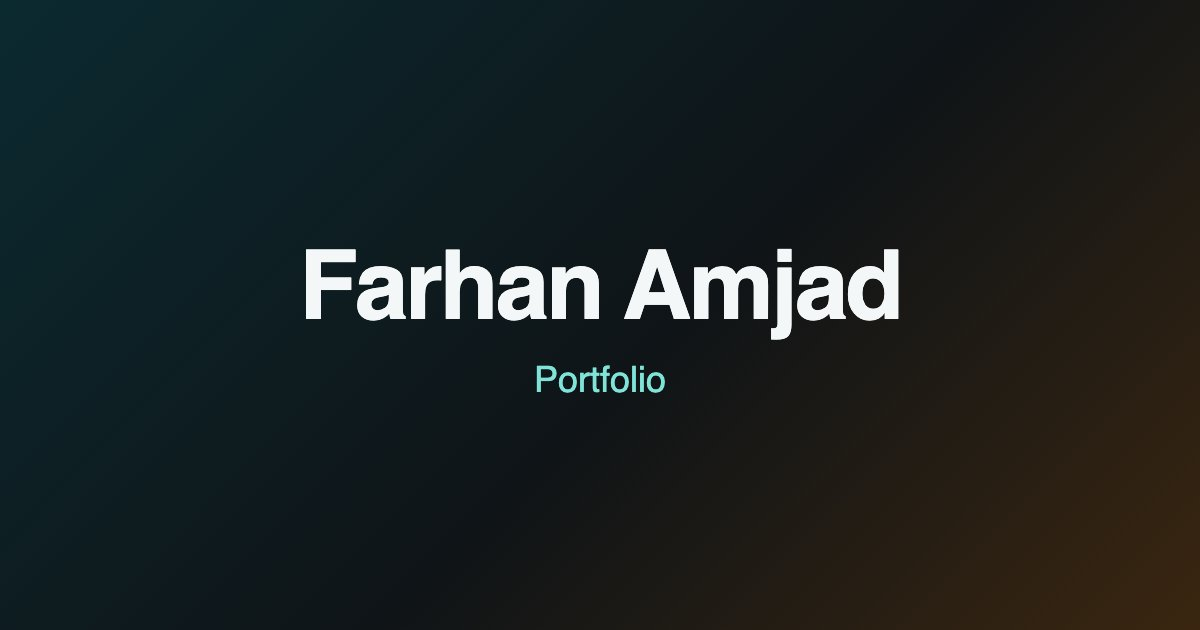
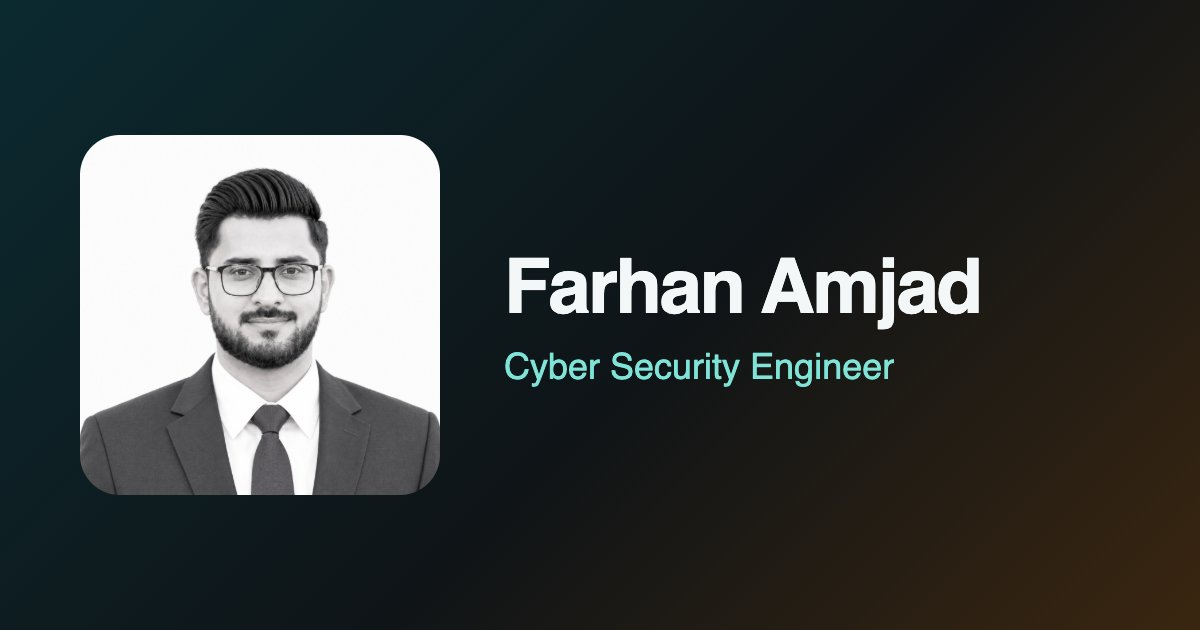
Add photo, full job history, education and NIST project
Adds the CV's work history, education and training to both languages,
expands the skills list, and replaces the placeholder portrait and share image.

Changed region(s): [[0.0617, 0.2111, 0.8325, 0.7841]]

diff --git a/src/components/About.jsx b/src/components/About.jsx
@@ -38,6 +38,7 @@ const About = () => {
   const { t, lang } = useTranslation();
   const years = useExperienceYears();
   const time = useClock(TIMEZONE, lang === "de" ? "de-DE" : "en-GB");
+  const education = t("skills.education");
   const current = useMemo(() => (t("workExperience.entries") || [])[0], [t]);
 
   return (
@@ -122,6 +123,34 @@ const About = () => {
               </a>
             </Tile>
           )}
+
+          {/* Education and training */}
+          <Tile className="lg:col-span-6">
+            <div className="grid gap-10 lg:grid-cols-2">
+              <div>
+                <p className="font-mono text-xs uppercase tracking-[0.2em] text-subtle">{education.heading}</p>
+                <ul className="mt-6 space-y-6">
+                  {education.items.map((item) => (
+                    <li key={item.degree}>
+                      <p className="font-medium">{item.degree}</p>
+                      <p className="mt-1 text-sm text-muted">{item.school}</p>
+                      <p className="mt-1 font-mono text-xs text-subtle">{item.period}</p>
+                    </li>
+                  ))}
+                </ul>
+              </div>
+              <div>
+                <p className="font-mono text-xs uppercase tracking-[0.2em] text-subtle">{education.training_heading}</p>
+                <ul className="mt-6 space-y-3">
+                  {education.training.map((item) => (
+                    <li key={item} className="text-sm leading-relaxed text-muted">
+                      {item}
+                    </li>
+                  ))}
+                </ul>
+              </div>
+            </div>
+          </Tile>
 
           {/* Mission */}
           <Tile delay={60} className="bg-linear-to-br from-accent/10 via-transparent to-accent-2/10 lg:col-span-6">
